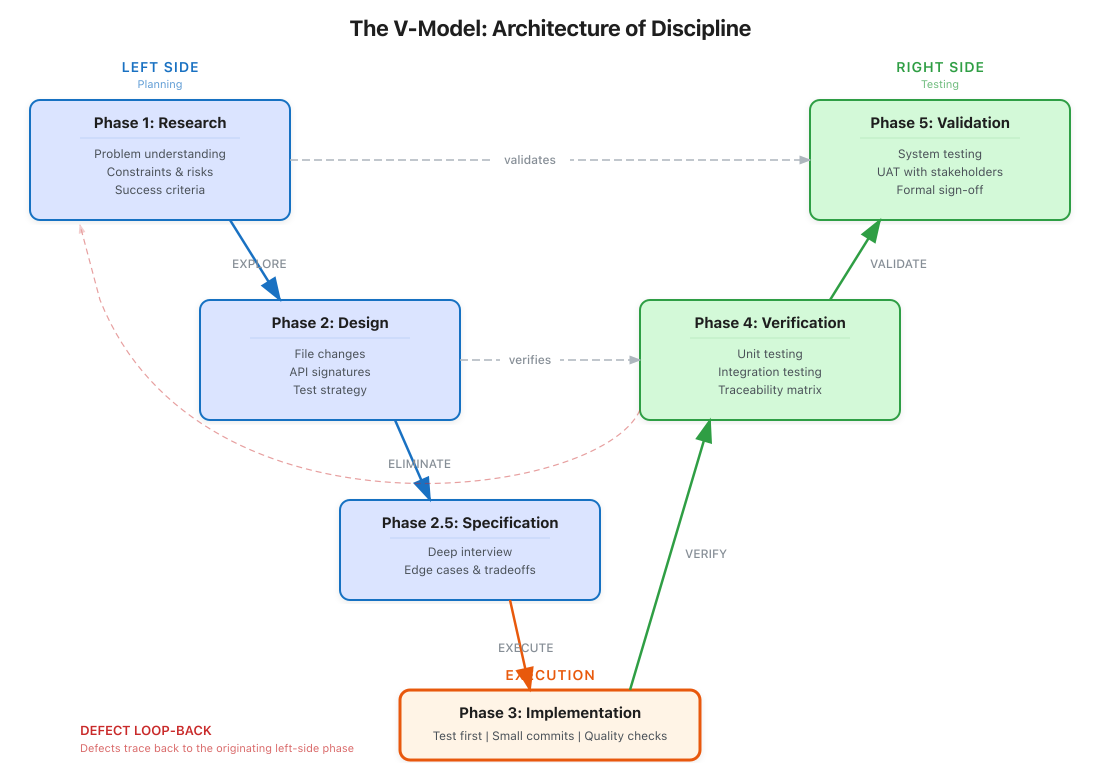
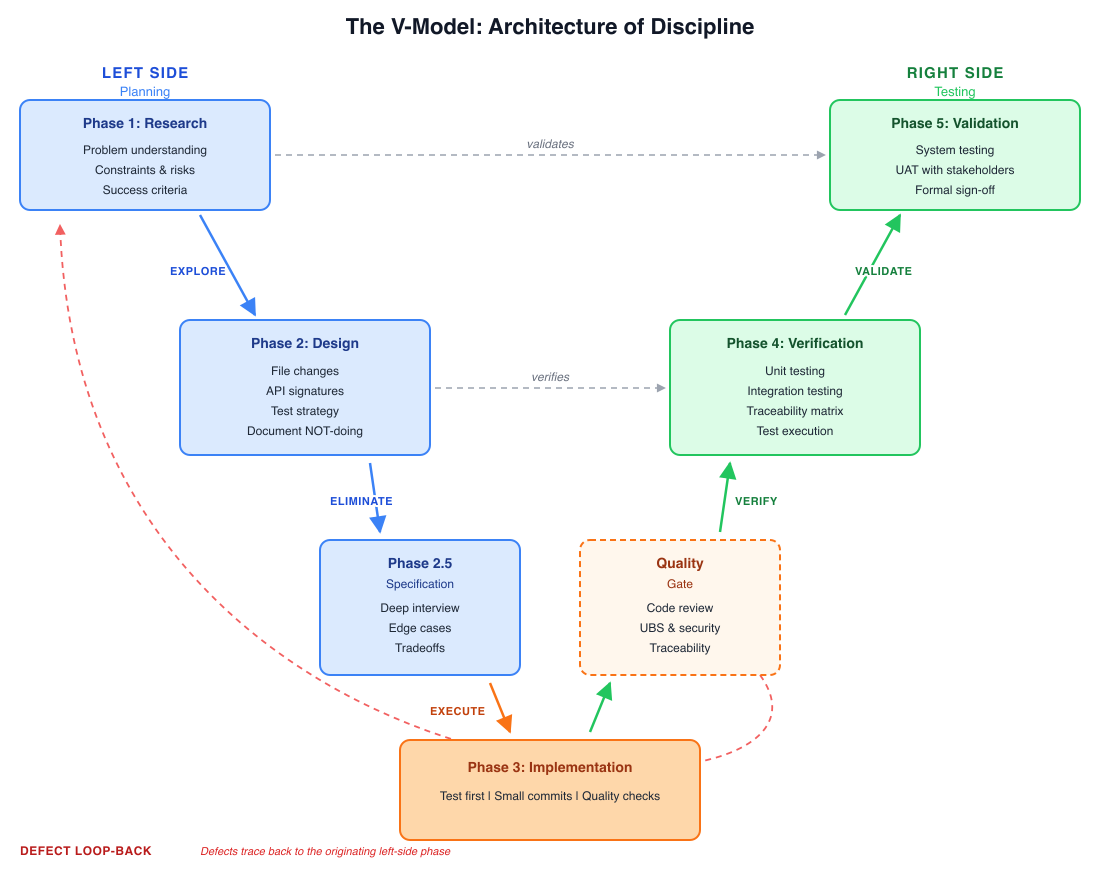
post: symmetric V-model diagram + May 2026 preamble
Replace v-model-overview.png and v-model-architecture.png in place with
a symmetric SVG-sourced render (Quality Gate added, arrows snapped to box
edges, mirrored around the V-axis). Also add v-model-symmetric-2026-05-31
.{png,svg} as cache-bust URLs for dev.to / Hashnode / Medium republishing.

Adds the "Update, May 2026: this repository is now private" preamble
explaining why terraphim-skills moved to a private repo after benchmarking
against Karpathy-derivative skills.

Refs #552

diff --git a/content/posts/disciplined-engineering-ai-systems.md b/content/posts/disciplined-engineering-ai-systems.md
@@ -15,6 +15,22 @@ AI coding agents are making us worse engineers, unless we add discipline back. H
 
 <!-- more -->
 
+## Update, May 2026: this repository is now private
+
+Up until last week, terraphim-skills was open source. You could install the whole set with one command via `skills.sh`. Then I ran a comparison: our skills against Andrej Karpathy's, against derivatives of Karpathy's, and against a no-skills control. For the first time in my life I clicked "Make private" on a public repository.
+
+Even on the first batch of tests, our approach beat both Karpathy's and the control:
+
+- 85% traceability of code back to the original requirements
+- Tests written by default, not bolted on after the fact
+- No ralph loop, no autoresearch swarm, no token-burning
+
+We control the flow and we control the cost, because we are not an AI lab and we are not a VC-funded startup burning tokens to chase a leaderboard. We are a consultancy getting things done with AI and building AI.
+
+The results speak for themselves. A few weeks ago I read a story about an autoresearch agent that achieved a speedup on the Liquid (Rails) parser. I had a slow markdown parser inside this very project. I ran our disciplined loop on it. Twice. Result: a 400x to 900x speedup in parsing.
+
+Here is how.
+
 ## The Vibe Coding Problem
 
 Every AI-generated pull request we review has the same pattern:
@@ -33,7 +49,7 @@ The missing piece is not better models. It is engineering discipline. AI agents 
 
 We built a V-model for AI agents. The left side asks "what should we build?" The right side asks "did we build it correctly?"
 
-![The V-Model for AI Agents: Research, Design, Specification, Implementation, Verification, Validation with quality gates at each transition](/images/v-model-overview.png)
+![The V-Model for AI Agents: Research, Design, Specification, Implementation, Verification, Validation with a Quality Gate, mirrored symmetrically across the V-axis](/images/v-model-overview.png)
 
 ### Phase 1: Research
 
